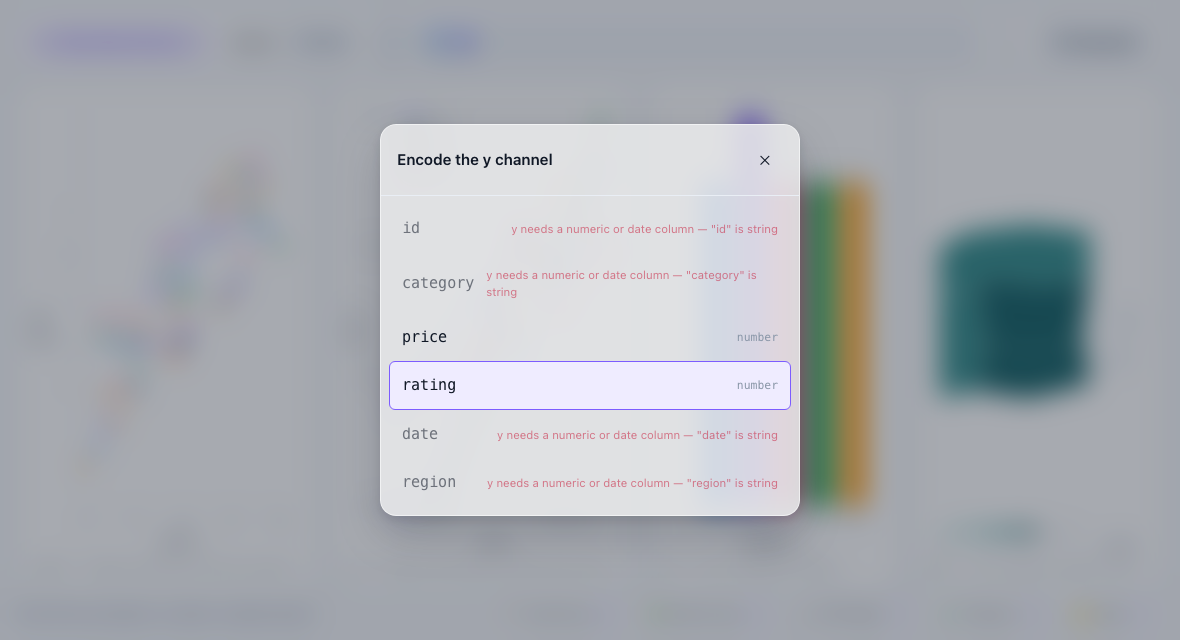
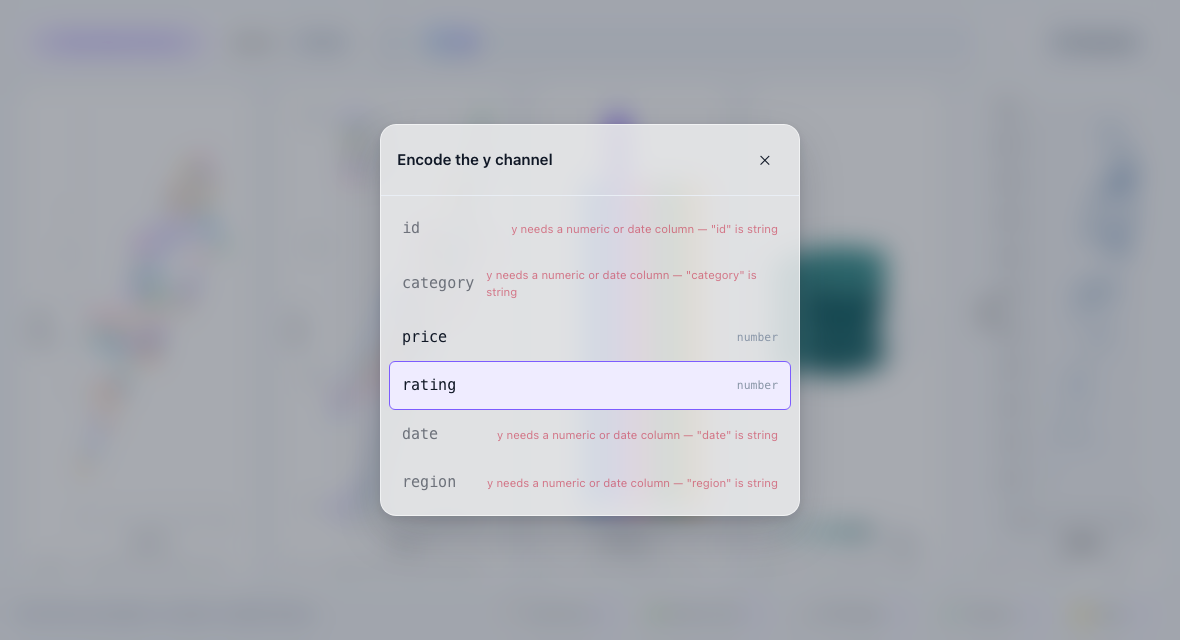
feat(ui/gallery): a Vega-Lite bridge cell, crossfiltering with the first-party charts
<VegaLiteCell> wraps vegaLiteRenderer through bindRenderer exactly as an
external consumer would — mount/update/unmount over the RP-1 contract, no
React inside the bridge itself. The gallery scene gets a 5th chart (rating ×
price, an interval brush) declared as a real view ('vl') in the scripted
session so its emissions land real commits with their origin in the cause,
proven both directions: brushing the bridge cell crossfilters the scatter
(fewer rows selected, scatter dims), and brushing the scatter dims the
bridge cell's marks via its injected __vzfKeep opacity encode.

The Playwright smoke test drives a REAL pointer drag against vega's own SVG
group tree — the interactive drag-capture surface is vega-lite's "root
frame" background, not the interval selection's own _brush/_brush_bg
indicator marks (those stay a zero-size rect until a selection exists).
Screenshots refreshed under UPDATE_SCREENSHOTS=1 (the layout shift from a
5th cell touches every existing shot; two new: gallery-vega-lite[.png/
-crossfiltered.png]).

Changed region(s): [[0.6712, 0.25, 0.9763, 0.8125], [0.9153, 0.25, 0.9763, 0.3125], [0.6102, 0.1562, 0.6407, 0.2188]]

diff --git a/ui/gallery/smoke.test.ts b/ui/gallery/smoke.test.ts
@@ -500,11 +500,13 @@ describe.skipIf(!existsSync(CHROME))('vizfootprint-ui gallery smoke (real headle
     });
     expect(strip.snapType, 'the charts band is a snap carousel on mobile').toContain('x');
     expect(strip.dotsDisplay, 'dot indicators show on mobile').not.toBe('none');
-    expect(strip.dotCount).toBe(4); // scatter · line · bar · map — all four ride the carousel
+    expect(strip.dotCount).toBe(5); // scatter · line · bar · map · vl (the bridge cell) — all five ride the carousel
     expect(Math.abs(strip.cellW - strip.stripW), 'each chart is one full-width page').toBeLessThanOrEqual(2);
     // both NEW charts are carousel cells with live content
     expect(await page.locator('[data-chart="line"] svg.vzf-line').count()).toBe(1);
     expect(await page.locator('[data-chart="map"] svg.vzf-map path.vzf-region').count()).toBe(5);
+    // the vega-lite bridge cell rides the carousel too — a real vega svg, live
+    expect(await page.locator('[data-chart="vl"] svg').count()).toBe(1);
     // tapping the second dot swipes to the LINE page (one full width + gap) and activates the dot
     await page.locator('[data-vzf="cockpit-dots"] .vzf-cockpit-dot').nth(1).click();
     await page.waitForFunction(
@@ -520,6 +522,78 @@ describe.skipIf(!existsSync(CHROME))('vizfootprint-ui gallery smoke (real headle
     await page.waitForTimeout(150); // let the smooth scroll fully settle before shooting
     await maybeScreenshot(page, { path: path.join(SHOTS, 'gallery-mobile.png'), fullPage: false });
     await page.setViewportSize({ width: 1180, height: 640 });
+  }, 30_000);
+
+  it('the vega-lite BRIDGE cell brushes rating, lands a REAL commit, and crossfilters both ways', async () => {
+    // vega renders its own SVG group tree (no data- hooks like the first-party
+    // charts); the plot's DRAG-CAPTURE surface is vega-lite's "root frame"
+    // background group — NOT the interval-selection's own `_brush`/`_brush_bg`
+    // indicator marks, which stay a zero-size rect until a selection exists
+    // and would make a coordinate-based drag land on nothing.
+    const vlPlotBox = async (): Promise<{ x: number; y: number; width: number; height: number }> =>
+      page.evaluate(() => {
+        const cell = document.querySelector('[data-chart="vl"]') as HTMLElement;
+        const svg = cell.querySelector('svg') as SVGSVGElement;
+        const root = Array.from(svg.querySelectorAll('g')).find(
+          (g) => g.getAttribute('class') === 'mark-group role-frame root',
+        );
+        const el = (root?.querySelector('rect') ?? root?.querySelector('path') ?? root) as Element;
+        const r = el.getBoundingClientRect();
+        return { x: r.x, y: r.y, width: r.width, height: r.height };
+      });
+    const readout = async (): Promise<number> =>
+      Number((((await page.locator('.vzf-cockpit-readout').textContent()) ?? '').match(/^(\d+) of 60/) ?? [])[1]);
+
+    // the bridge cell renders a real vega svg with one mark per row
+    expect(await page.locator('[data-chart="vl"] svg').count()).toBe(1);
+    await maybeElementShot(page, '[data-chart="vl"]', path.join(SHOTS, 'gallery-vega-lite.png'));
+
+    // ── brush THIS chart → a REAL interval commit, with its origin in the
+    //    cause (the same rail every first-party chart's onEmit uses) ──
+    const commitsBefore = Number(await page.locator('[data-report="commits"] .vzf-report-badge').textContent());
+    const rowsBefore = await readout();
+    const box = await vlPlotBox();
+    await page.mouse.move(box.x + box.width * 0.15, box.y + box.height * 0.5);
+    await page.mouse.down();
+    await page.mouse.move(box.x + box.width * 0.85, box.y + box.height * 0.5, { steps: 10 });
+    await page.mouse.up();
+    await page.waitForFunction(
+      (n) => Number(document.querySelector('[data-report="commits"] .vzf-report-badge')?.textContent) > n,
+      commitsBefore,
+      { timeout: 8000 },
+    );
+    // the interval CROSSFILTERS: fewer rows selected, the scatter dims points outside the rating brush
+    const rowsAfter = await readout();
+    expect(rowsAfter).toBeLessThan(rowsBefore);
+    expect(rowsAfter).toBeGreaterThan(0);
+    expect(await page.locator('svg.vzf-scatter circle.vzf-dim').count()).toBeGreaterThan(0);
+    await maybeScreenshot(page, { path: path.join(SHOTS, 'gallery-vega-lite-crossfiltered.png'), fullPage: false });
+
+    // ── the OTHER direction: brushing the SCATTER dims the vega-lite marks
+    //    via the bridge-injected __vzfKeep opacity encode ──
+    const commitsBefore2 = Number(await page.locator('[data-report="commits"] .vzf-report-badge').textContent());
+    const scatterBox = (await page.locator('svg.vzf-scatter').boundingBox())!;
+    await page.mouse.move(scatterBox.x + scatterBox.width * 0.15, scatterBox.y + scatterBox.height * 0.5);
+    await page.mouse.down();
+    await page.mouse.move(scatterBox.x + scatterBox.width * 0.55, scatterBox.y + scatterBox.height * 0.5, { steps: 10 });
+    await page.mouse.up();
+    await page.waitForFunction(
+      (n) => Number(document.querySelector('[data-report="commits"] .vzf-report-badge')?.textContent) > n,
+      commitsBefore2,
+      { timeout: 8000 },
+    );
+    const vlDim = await page.evaluate(() => {
+      const cell = document.querySelector('[data-chart="vl"]') as HTMLElement;
+      const marksGroup = Array.from(cell.querySelectorAll('g')).find(
+        (g) => g.getAttribute('class') === 'mark-symbol role-mark marks',
+      );
+      const marks = Array.from(marksGroup?.querySelectorAll('path') ?? []);
+      return { total: marks.length, dimmed: marks.filter((m) => m.getAttribute('opacity') === '0.25').length };
+    });
+    expect(vlDim.total).toBe(60); // one mark per row — the bridge never filters its own rows
+    expect(vlDim.dimmed).toBeGreaterThan(0); // the OTHER view's clause dims rows outside it (self-exclusion intact)
+
+    await expectNoPageOrShellScroll(page);
   }, 30_000);
 
   it('the gallery ran with zero console errors', () => {

diff --git a/ui/gallery/VegaLiteCell.tsx b/ui/gallery/VegaLiteCell.tsx
@@ -1,0 +1,93 @@
+/**
+ * `<VegaLiteCell>` — the gallery's proof that a THIRD-PARTY-shaped renderer
+ * (mount/update/unmount over the RP-1 contract, never a React component) rides
+ * the SAME crossfilter loop as the five first-party charts:
+ *
+ *   - brushing THIS chart's rating axis lands a REAL interval commit through
+ *     `bindRenderer`'s handshake (viewId 'vl'), with its origin in the cause —
+ *     the SAME `view.emit(...)` rail the first-party charts use;
+ *   - that commit crossfilters the OTHER views (bar/map counts recompute,
+ *     the scatter dims outside the rating range);
+ *   - brushing ANOTHER view (e.g. the scatter) crossfilters BACK: this
+ *     chart's injected `__vzfKeep` opacity encode dims the rows outside the
+ *     other view's clause, the same as any first-party chart's dim state.
+ *
+ * The bridge itself never sees React — `bindRenderer` + `mount`/`update` is
+ * the WHOLE integration surface, exactly as an external consumer would use it.
+ */
+import { useEffect, useRef } from 'react';
+import type { TopLevelSpec } from 'vega-lite';
+import { vegaLiteRenderer } from 'vizfootprint-vega-lite';
+import { bindRenderer } from '../src/index.js';
+import type { BoundRenderer, ChartEmission, RenderRow, RenderSelection } from '../src/index.js';
+
+/** One single-view spec: an interval brush on `rating`, positioned against `price`. */
+const GALLERY_VL_SPEC: TopLevelSpec = {
+  mark: { type: 'circle', size: 60 },
+  params: [{ name: 'vzfGalleryBrush', select: { type: 'interval', encodings: ['x'] } }],
+  encoding: {
+    x: { field: 'rating', type: 'quantitative', title: 'Rating' },
+    y: { field: 'price', type: 'quantitative', title: 'Price' },
+  },
+} as unknown as TopLevelSpec;
+
+export interface VegaLiteCellProps {
+  readonly viewId: string;
+  readonly rows: readonly RenderRow[];
+  readonly selection: RenderSelection;
+  readonly theme: Readonly<Record<string, string>>;
+  readonly width: number;
+  readonly height: number;
+  onEmit(emission: ChartEmission): void;
+}
+
+export function VegaLiteCell(props: VegaLiteCellProps): JSX.Element {
+  const hostRef = useRef<HTMLDivElement | null>(null);
+  const boundRef = useRef<BoundRenderer | null>(null);
+  // the mount effect only runs once — read the LATEST callback through a ref
+  // so a re-render never forces a remount of the (expensive) vega view
+  const onEmitRef = useRef(props.onEmit);
+  onEmitRef.current = props.onEmit;
+
+  useEffect(() => {
+    const el = hostRef.current;
+    /* v8 ignore next -- the ref rides the div this same render returns; React attaches it before effects run */
+    if (!el) return;
+    const renderer = vegaLiteRenderer(GALLERY_VL_SPEC);
+    const res = bindRenderer(renderer, el, {
+      viewId: props.viewId,
+      callbacks: {
+        emit: (emission) => onEmitRef.current(emission),
+        hover: () => {},
+        reencodeRequest: () => {},
+        navigate: () => {},
+      },
+      onGap: (gap) => {
+        // honest surface, never silent — a bind refusal here is a real bug
+        // (an incompatible protocol build, or a spec the gate should have caught)
+        console.error('vega-lite gallery cell: contract gap at bind', gap);
+      },
+    });
+    if (!res.ok) return;
+    boundRef.current = res.view;
+    return () => {
+      res.view.unmount();
+      boundRef.current = null;
+    };
+    // eslint-disable-next-line react-hooks/exhaustive-deps
+  }, [props.viewId]);
+
+  useEffect(() => {
+    if (props.width < 1 || props.height < 1) return;
+    boundRef.current?.update({
+      rows: props.rows,
+      encodings: {},
+      selection: props.selection,
+      hover: null,
+      theme: props.theme,
+      size: { width: props.width, height: props.height },
+    });
+  }, [props.rows, props.selection, props.theme, props.width, props.height]);
+
+  return <div ref={hostRef} className="vzf-vl-cell" style={{ width: '100%', height: '100%' }} />;
+}

diff --git a/ui/gallery/entry.tsx b/ui/gallery/entry.tsx
@@ -41,6 +41,7 @@ import {
 } from '../src/index.js';
 import { buildScriptedSession } from './scripted.js';
 import { CATEGORIES, CATEGORY_COLORS, GALLERY_GEO, REGIONS, type GalleryRow } from './data.js';
+import { VegaLiteCell } from './VegaLiteCell.js';
 
 // The old page-local clause matcher is GONE (RP-1): the contract's
 // `selectionForView` derives the clause-addressable selection straight from
@@ -234,6 +235,22 @@ function App(props: { view: SessionView; rows: readonly GalleryRow[] }): JSX.Ele
               height={height}
               selection={selFor('map')}
               onEmit={(e) => void view.emit('map', e, 'region click')}
+            />
+          ),
+        },
+        {
+          id: 'vl',
+          weight: 2.5,
+          caption: 'Vega-Lite (bridge) — drag to brush rating',
+          render: ({ width, height }) => (
+            <VegaLiteCell
+              viewId="vl"
+              rows={rows}
+              selection={selFor('vl')}
+              theme={{}}
+              width={width}
+              height={height}
+              onEmit={(e) => void view.emit('vl', e, 'vega-lite bridge gesture')}
             />
           ),
         },

diff --git a/ui/gallery/scripted.ts b/ui/gallery/scripted.ts
@@ -40,6 +40,11 @@ export async function buildScriptedSession(): Promise<ScriptedGallery> {
       bar: { actor: 'user', label: 'Category' },
       line: { actor: 'user', label: 'Price over time' },
       map: { actor: 'user', label: 'Rows by region' },
+      // the vizfootprint-vega-lite bridge cell (RP-2): a THIRD-PARTY-shaped
+      // renderer riding the SAME declared-view/crossfilter loop as the four
+      // first-party charts above — must be declared here for its emissions
+      // to land real commits (an undeclared viewId never lands one).
+      vl: { actor: 'user', label: 'Rating × price (Vega-Lite bridge)' },
     },
     encodings: [
       { viewId: 'scatter', chartKind: 'point', channels: ['x', 'y', 'color'], initial: { x: 'price', y: 'rating' } },
